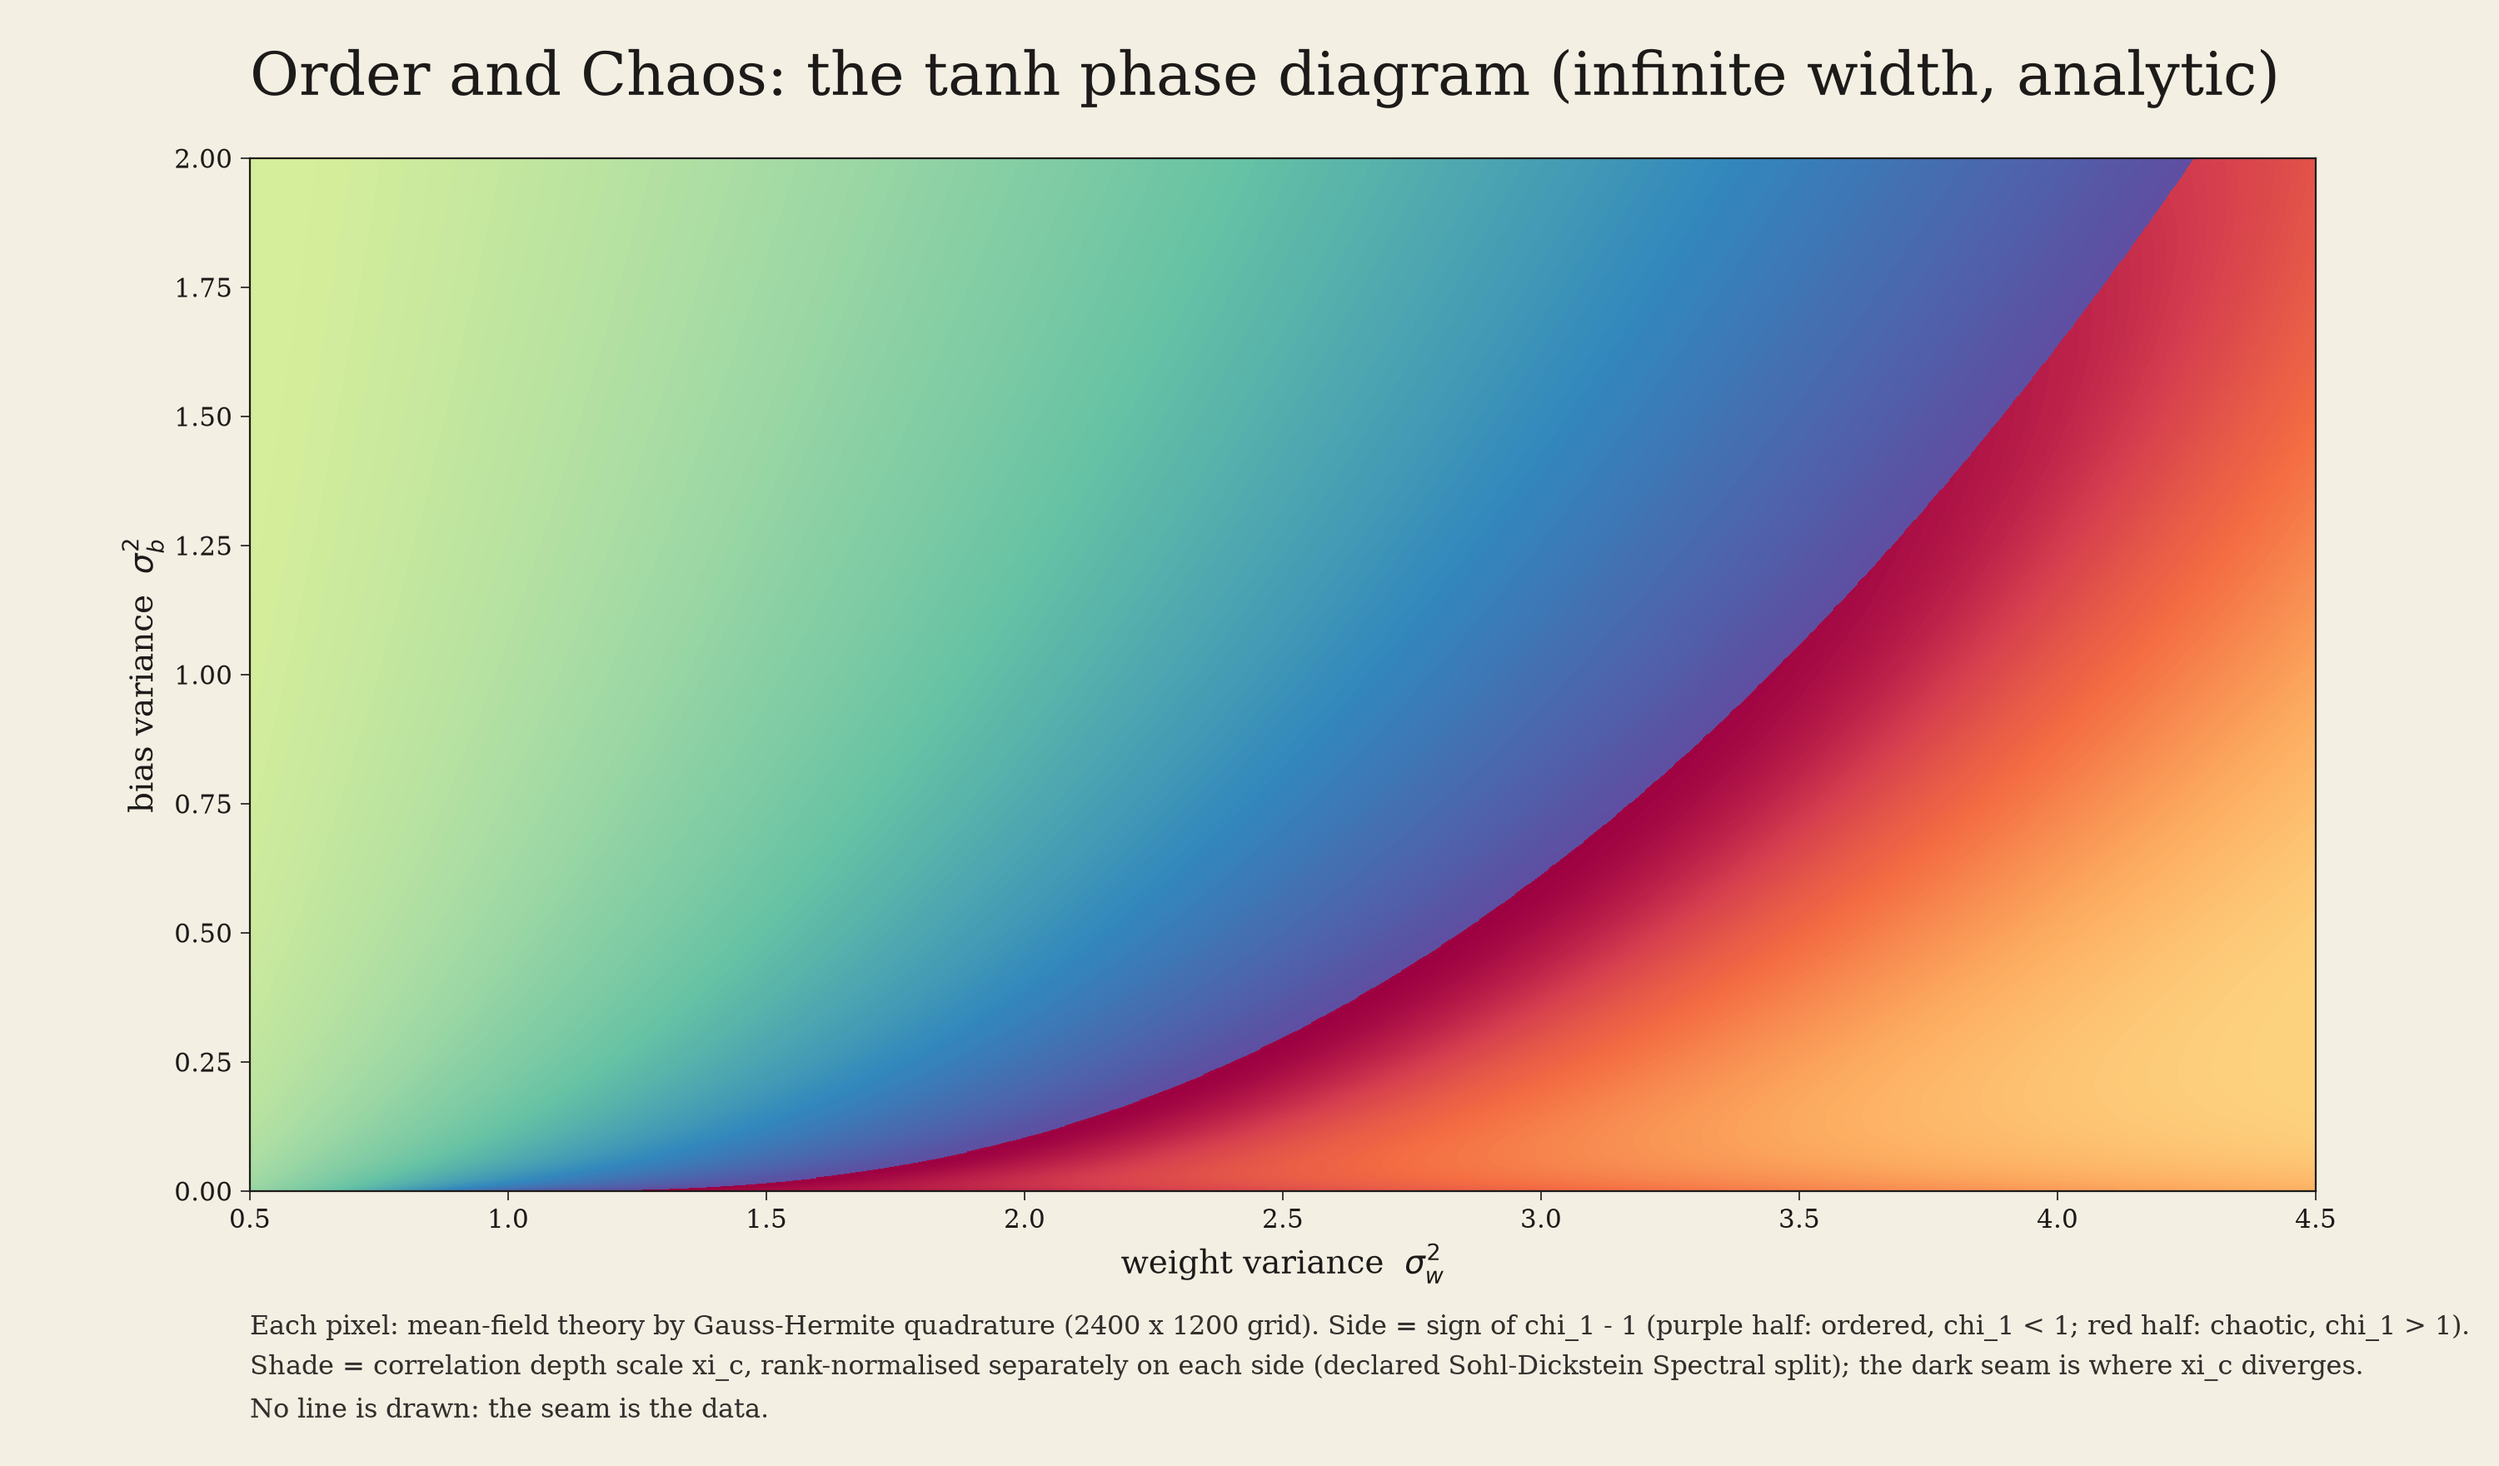
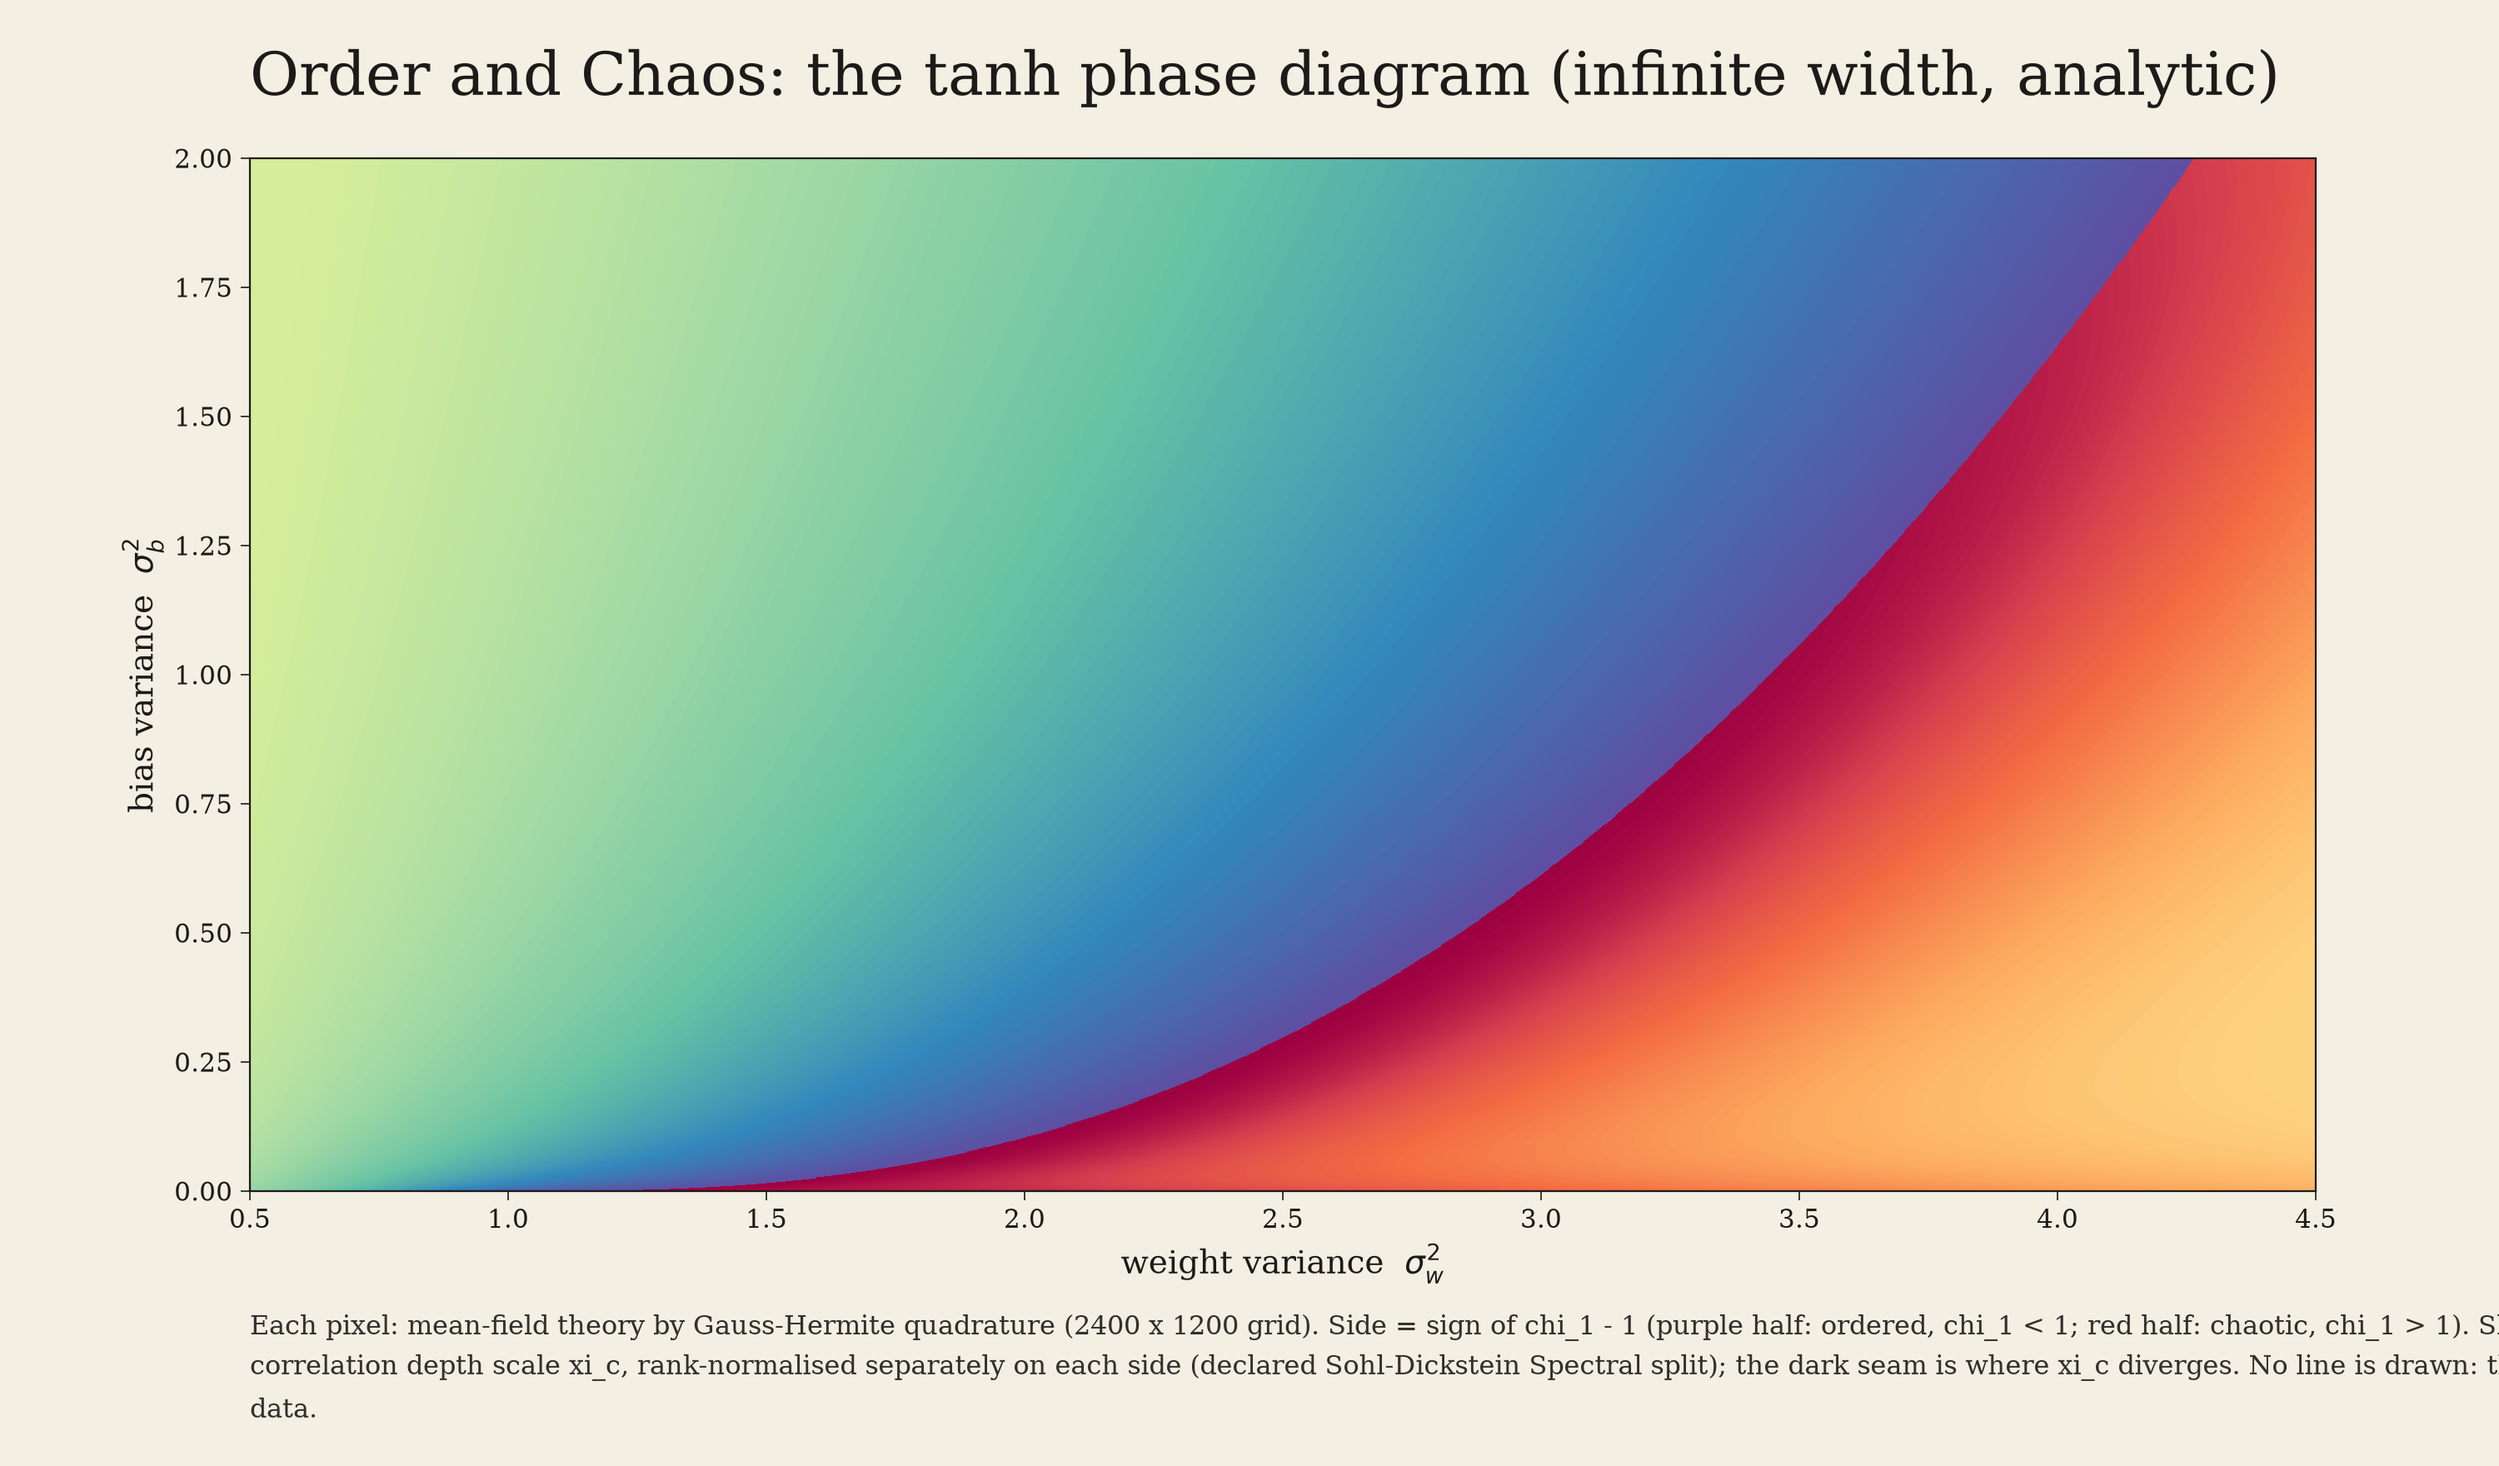
art/signal-propagation: measured phase plates (Spectral, ridge, riso, splits, atlas), verification sheet draft

Changed region(s): [[0.093, 0.875, 1.0, 0.9688]]

diff --git a/art/signal-propagation/render_verification.py b/art/signal-propagation/render_verification.py
@@ -1,0 +1,79 @@
+"""Verification sheet (fractals doc section 11): box counting across zoom levels, null model,
+precision and resolution checks, threshold dependence.
+
+  python render_verification.py
+"""
+import json, os
+import numpy as np
+from render_common import *
+
+RB = json.load(open(os.path.join(CACHE, "fractal_report_B_N100_sync.json")))
+RA = json.load(open(os.path.join(CACHE, "fractal_report_A_N100_tau.json")))
+W, H = 3000, 2200
+fig = fig_px(W, H, bg=PAPER)
+fig.text(0.04, 0.965, "Verification: is the finite-width frontier fractal?  (erf MLP, N = 100, depth 1000)",
+         fontsize=22, color=INK, va="center")
+c_sync, c_tau, c_null, c_f32 = "#b8473a", "#2f6aa3", INK, "#8e9c94"
+
+# (a) local slope vs zoom
+ax = fig.add_axes([0.06, 0.55, 0.40, 0.36]); ax.set_facecolor(PAPER)
+for R, col, lab in ((RB, c_sync, "sync frontier (pair merged within 1000 layers?)"), (RA, c_tau, "paper threshold L = 1e-5")):
+    z = [d["zoom"] for d in R["levels"]]
+    ax.plot(z, [d["slope"] for d in R["levels"]], "o-", color=col, lw=1.4, label=lab + ", float64")
+    ax.plot(z, [d.get("slope_f32", np.nan) for d in R["levels"]], "x--", color=col, lw=0.8, alpha=0.6, label=lab + ", float32")
+    for rs, mk in (("512", "s"), ("1024", "D")):
+        zz = [d["zoom"] for d in R["levels"] if rs in d["rescheck"]]
+        ss = [d["rescheck"][rs]["slope_fine"] for d in R["levels"] if rs in d["rescheck"]]
+        if zz:
+            ax.plot(zz, ss, mk, mfc="none", mec=col, ms=9, label=f"{lab.split(' (')[0]}, same windows at {rs} px")
+zn = [4.0 ** d["level"] for d in RB["null"]]
+ax.plot(zn, [d["slope"] for d in RB["null"]], "^-", color=c_null, lw=1.2, label="null model: infinite width, same pipeline")
+ax.axhline(1, color=INK, lw=0.4, ls=":"); ax.axhline(2, color=INK, lw=0.4, ls=":")
+ax.set_xscale("log"); ax.set_ylim(0.8, 2.15)
+ax.set_xlabel("zoom factor (window side 4 / zoom)"); ax.set_ylabel("local box-counting slope (box 2 to R/8 px)")
+ax.legend(fontsize=8, frameon=False, loc="lower right")
+ax.set_title("(a) slope inside each boundary-centred window", loc="left", fontsize=13)
+
+# (b) stitched N(eps)
+ax = fig.add_axes([0.55, 0.55, 0.40, 0.36]); ax.set_facecolor(PAPER)
+for R, col, lab in ((RB, c_sync, "sync frontier"), (RA, c_tau, "L = 1e-5")):
+    e = np.array(R["stitched"]["eps"]); n = np.array(R["stitched"]["logN"])
+    ax.plot(1 / e, np.exp(n), ".", color=col, ms=5, label=f"{lab}: global slope {R['stitched_slope']:.2f} over {np.log10(e.max()/e.min()):.1f} decades")
+x = np.logspace(0, 8, 10)
+for sl, ls in ((1, ":"), (2, "--")):
+    ax.plot(x, 3 * x ** sl, ls, color=INK, lw=0.6, label=f"slope {sl}")
+ax.set_xscale("log"); ax.set_yscale("log"); ax.set_xlim(2, 1e8); ax.set_ylim(1, 1e17)
+ax.set_xlabel("1 / eps  (eps in units of the full [0,4] window)"); ax.set_ylabel("N(eps), stitched across zoom levels")
+ax.legend(fontsize=8, frameon=False, loc="upper left")
+ax.set_title("(b) stitched box count (upper-biased: windows at max mixing)", loc="left", fontsize=13)
+
+# (c) precision
+ax = fig.add_axes([0.06, 0.10, 0.40, 0.34]); ax.set_facecolor(PAPER)
+for R, col, lab in ((RB, c_sync, "sync"), (RA, c_tau, "L = 1e-5")):
+    z = [d["zoom"] for d in R["levels"]]
+    ax.plot(z, [100 * d.get("mismatch_f32", np.nan) for d in R["levels"]], "o-", color=col, label=f"{lab}: float32 vs float64")
+    zp = [d["zoom"] for d in R["levels"] if "mismatch_pert" in d]
+    ax.plot(zp, [100 * d["mismatch_pert"] for d in R["levels"] if "mismatch_pert" in d], "s--", color=col, mfc="none",
+            label=f"{lab}: float64 vs float64 with inputs perturbed 1e-13")
+ax.set_xscale("log"); ax.set_ylabel("% pixels with a different outcome"); ax.set_xlabel("zoom factor")
+
+ax.legend(fontsize=8, frameon=False, loc="upper left")
+ax.set_title("(c) precision floor", loc="left", fontsize=13)
+
+# (d) threshold scan
+ax = fig.add_axes([0.55, 0.10, 0.40, 0.34]); ax.set_facecolor(PAPER)
+cm = plt.get_cmap("cmc.batlow")
+for d in RA["levels"]:
+    t = np.array([x[0] for x in d["tau_scan"]]); s = np.array([x[1] if x[1] is not None else np.nan for x in d["tau_scan"]], float)
+    ax.plot(t, s, "-", color=cm(d["level"] / 9), lw=1.2, label=f"x{d['zoom']:,.0f}")
+ax.axvspan(1e-5, 1, color="#e6d9c3", alpha=0.5, zorder=0); ax.text(2e-5, 0.85, "paper's threshold range (max taken)", fontsize=8)
+ax.set_xscale("log"); ax.set_ylim(0.6, 2.1); ax.set_xlabel("threshold tau on L"); ax.set_ylabel("local slope")
+ax.legend(fontsize=7, frameon=False, ncol=3, loc="lower left")
+ax.set_title("(d) slope vs threshold tau (L = 1e-5 chain windows)", loc="left", fontsize=13)
+fig.text(0.04, 0.03, "Local slopes: least-squares fit of log N vs log(1/box) for box sizes 2 ... R/8 px on the 2x2-mixing edge cells of the binary map (same rule as the paper's code).\n"
+         "Stitched curve: level k+1 counts multiplied by the number of occupied (R/4)-boxes at level k; windows chosen at maximal mixing, so biased toward dense regions.",
+         fontsize=10.5, color=INK)
+for a in fig.axes:
+    a.tick_params(labelsize=9)
+savefig(fig, "verification_sheet.png")
+print("ok")

diff --git a/art/signal-propagation/render_phase.py b/art/signal-propagation/render_phase.py
@@ -47,6 +47,8 @@ def plate(rgb, name, title, caption, extent, bg=PAPER, fg=INK, W=3000, line=None
     ax.set_xlabel(r"weight variance  $\sigma_w^2$", color=fg, fontsize=14)
     ax.set_ylabel(r"bias variance  $\sigma_b^2$", color=fg, fontsize=14)
     fig.text(300 / W, 1 - 95 / H, title, color=fg, fontsize=26, va="center")
+    import textwrap
+    caption = "\n".join(textwrap.fill(par, 185) for par in caption.replace("\n", " ").split("  ")) if len(caption) > 0 else caption
     fig.text(300 / W, 1 - (ih + 330) / H, caption, color=fg, fontsize=11.5, va="top", linespacing=1.5, alpha=0.9)
     return savefig(fig, name)
 
@@ -68,15 +70,15 @@ if want("spectral"):
         rgb = split_rgb(ch_e, E["xi_c"], "sd_spectral", near_boundary="large")
         plate(rgb, "phase_spectral_measured.png", "Order and Chaos, measured (width 1000, 6 random nets per pixel)",
               f"Each pixel: {int(E['K'])} random tanh MLPs of width N = {int(E['N'])}, depth {int(E['D'])} (common random numbers across pixels). "
-              "Side = measured growth rate of an infinitesimal input perturbation (chi_1 > 1: red).\nShade = measured "
-              "correlation depth scale xi_c (exponential fit of |c^l - c*| vs depth), rank-normalised per side "
-              "(declared Spectral split). 480 x 240 pixels, shown with nearest-neighbour enlargement.\nNo line drawn.",
+              "\nSide = measured growth rate of an infinitesimal input perturbation (chi_1 > 1: red). Shade = measured "
+              "correlation depth scale xi_c (exponential fit of |c^l - c*| vs depth),\nrank-normalised per side "
+              "(declared Spectral split). 480 x 240 pixels, nearest-neighbour enlargement. No line drawn; black = fit failed.",
               ext)
         for pair in ("aurora_ember", "indigo_madder"):
             rgb = split_rgb(ch_e, E["xi_c"], pair, near_boundary="large")
             plate(rgb, f"phase_split_{pair}_measured.png", f"Order and Chaos, measured ({P.PAIRINGS[pair]['title']})",
                   f"Same measurement as the Spectral plate (N = {int(E['N'])}, depth {int(E['D'])}, {int(E['K'])} nets/pixel); declared split palette "
-                  f"'{pair}' from color-research/palettes.py.", ext)
+                  f"'{pair}' from color-research/palettes.py.\nSide = measured chi_1 > 1; shade = per-side rank of measured xi_c.", ext)
 
 # ---------------------------------------------------------------- A2 dark ridge (measured, no line)
 if want("ridge") and E is not None:

diff --git a/art/signal-propagation/analyze_fractal.py b/art/signal-propagation/analyze_fractal.py
@@ -87,14 +87,14 @@ for k in range(nlev):
     # resolution check
     rc = {}
     cands = []
-    Zr = load(args.tag + "res", "f64", 512)
-    if Zr is not None and k < Zr["L_avg"].shape[0]:
-        cands.append((512, Zr, k))
-    for item in filter(None, args.plates.split(";")):
-        t, lv = item.split(":")
-        lv = [int(x) for x in lv.split(",")]
-        if k in lv:
-            cands.append((1024, load(t, "f64", 1024), lv.index(k)))
+    for f in sorted(glob.glob(C(f"zoom_{args.tag}*_N{args.N}_D{args.D}_s{args.seed}_f64_r*.npz"))):
+        r = int(f.split("_r")[-1].split(".")[0])
+        if r == args.res:
+            continue
+        Zr = np.load(f)
+        jj = [j for j in range(Zr["windows"].shape[0]) if np.allclose(Zr["windows"][j], wins[k], rtol=0, atol=1e-15)]
+        if jj:
+            cands.append((r, Zr, jj[0]))
     for r, Zr, kk in cands:
         if Zr is None:
             continue
